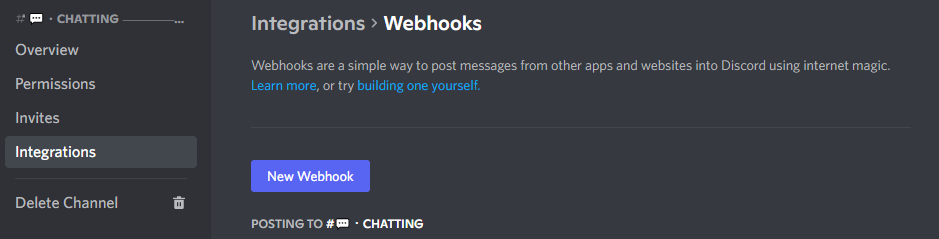
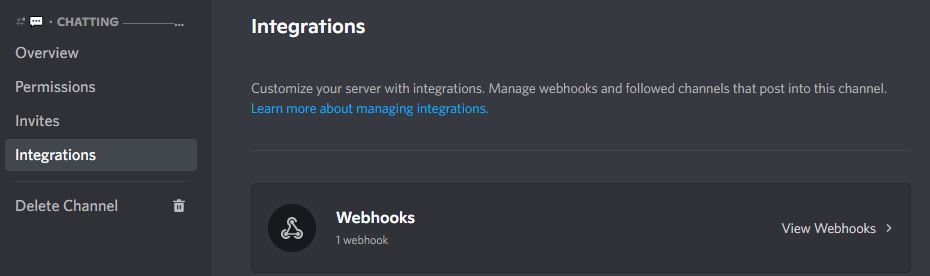
GitBook: [#11] No subject

diff --git a/basic-stuff/simple-messages.md b/basic-stuff/simple-messages.md
@@ -1,0 +1,83 @@
+# 💬 Simple Messages
+
+DiSky allows you to send or reply to messages. Although simple text works, bots can also use "embeds", with different ways to organize the structure of your message.
+
+### Simple Text Message
+
+Simple text messages are just ... text! Use the `post` effect (or `reply` if you're in a DiSky event) and just specify the text you can send:
+
+```applescript
+reply with "Hello World!"
+```
+
+```applescript
+post "Hello World!" to text channel with id "000" # specific channel
+```
+
+<figure><img src="../.gitbook/assets/image.png" alt=""><figcaption><p>Result of a response in a slash command</p></figcaption></figure>
+
+### Simple Embed Message
+
+An embed can have different properties:
+
+* Title (<mark style="color:purple;">+ title URL</mark>)
+* Author (<mark style="color:purple;">+ author icon & URL</mark>)
+* Description
+* Color
+* Image
+* Thumbnail
+* Footer (<mark style="color:purple;">+ footer icon</mark>)
+* Timestamp
+* Fields (inline or not)
+
+Here's an example embed containing all the above properties:
+
+<figure><img src="../.gitbook/assets/image (2).png" alt=""><figcaption><p>Full example of an embed</p></figcaption></figure>
+
+{% hint style="warning" %}
+You cannot set a "sub" property (<mark style="color:purple;">in purple</mark>) without setting the main property.
+
+For example, you can't set an author icon without an author.
+{% endhint %}
+
+The code for the above embed is the following:
+
+```applescript
+make embed:
+    set title of embed to "Title"
+    set title url of embed to "https://www.crunchyroll.com/fr/tonikawa-over-the-moon-for-you"
+    
+    set description of embed to "Description%nl%The title leads to the URL, if given"
+    
+    set author of the embed to "Author name (Can point to URL)" # author must be set first
+    set author icon of embed to "https://cdn.discordapp.com/emojis/825811394963177533.png?v=1"
+    set author url of embed to "https://www.youtube.com/watch?v=i33DB6R8YUY"
+    
+    set embed color of the embed to orange
+    
+    add inline field named "Field Name" with value "Colour sets %nl%< that" to fields of embed
+    add inline field named "Field Name" with value "Color is a java Color%nl%Not a string" to fields of embed
+    add inline field named "Field Name" with value "Field value" to fields of embed
+    add field named "Non-inline field name" with value "The number of fields that can be shown on the same row is limited to 3, but is limited to 2 when an image is included" to fields of embed
+    
+    set footer of embed to "Footer text"
+    set footer icon of embed to "https://cdn.discordapp.com/emojis/825811394963177533.png?v=1"
+    
+    set image of embed to "https://media.discordapp.net/attachments/237757030708936714/390520880242884608/8xAac.png?width=508&height=522"
+    set thumbnail of embed to "https://cdn.discordapp.com/emojis/825811394963177533.png?v=1"
+    set timestamp of embed to now
+```
+
+Once the section is run, you can post/reply with the last created embed, such as:
+
+```applescript
+make embed:
+    ...
+reply with last embed
+```
+
+```applescript
+make embed:
+    ...
+post last embed to text channel with id "000"
+```

diff --git a/SUMMARY.md b/SUMMARY.md
@@ -3,10 +3,11 @@
 * [☺ Welcome!](README.md)
 * [⚔ Vixio VS DiSky](<README (1).md>)
 * [🪧 Getting Started](getting-started/README.md)
-  * [1⃣ Installation](getting-started/installation.md)
-  * [2⃣ Bot Creation](getting-started/bot-creation.md)
-  * [3⃣ Bot Loading](getting-started/bot-loading.md)
+  * [1⃣ 1⃣ Installation](getting-started/installation.md)
+  * [2⃣ 2⃣ Bot Creation](getting-started/bot-creation.md)
+  * [3⃣ 3⃣ Bot Loading](getting-started/bot-loading.md)
 * [📦 Basic Stuff](basic-stuff/README.md)
+  * [💬 Simple Messages](basic-stuff/simple-messages.md)
   * [📐 Discord Commands](basic-stuff/discord-commands.md)
   * [📺 Presence & Status](basic-stuff/presence-and-status.md)
 * [⚒ Advanced Stuff](advanced-stuff.md)

diff --git a/modules/webhooks.md b/modules/webhooks.md
@@ -14,11 +14,11 @@ Webhooks **do not support** components! (neither interactions)
 
 In order to create a new webhook, simply navigate inside your wanted channel's settings. Go into the `Integrations` **** panel, then `Webhooks`:
 
-![a channel's settings panel](../.gitbook/assets/image.png)
+![a channel's settings panel](<../.gitbook/assets/image (1).png>)
 
 Click on the `New Webhook` button, and just copy the webhook URL. The name and avatar that are shown here will be editable later:
 
-![the webhooks sub-panel](<../.gitbook/assets/image (1).png>)
+![the webhooks sub-panel](<../.gitbook/assets/image (1) (1).png>)
 
 ### Registering the client
 
